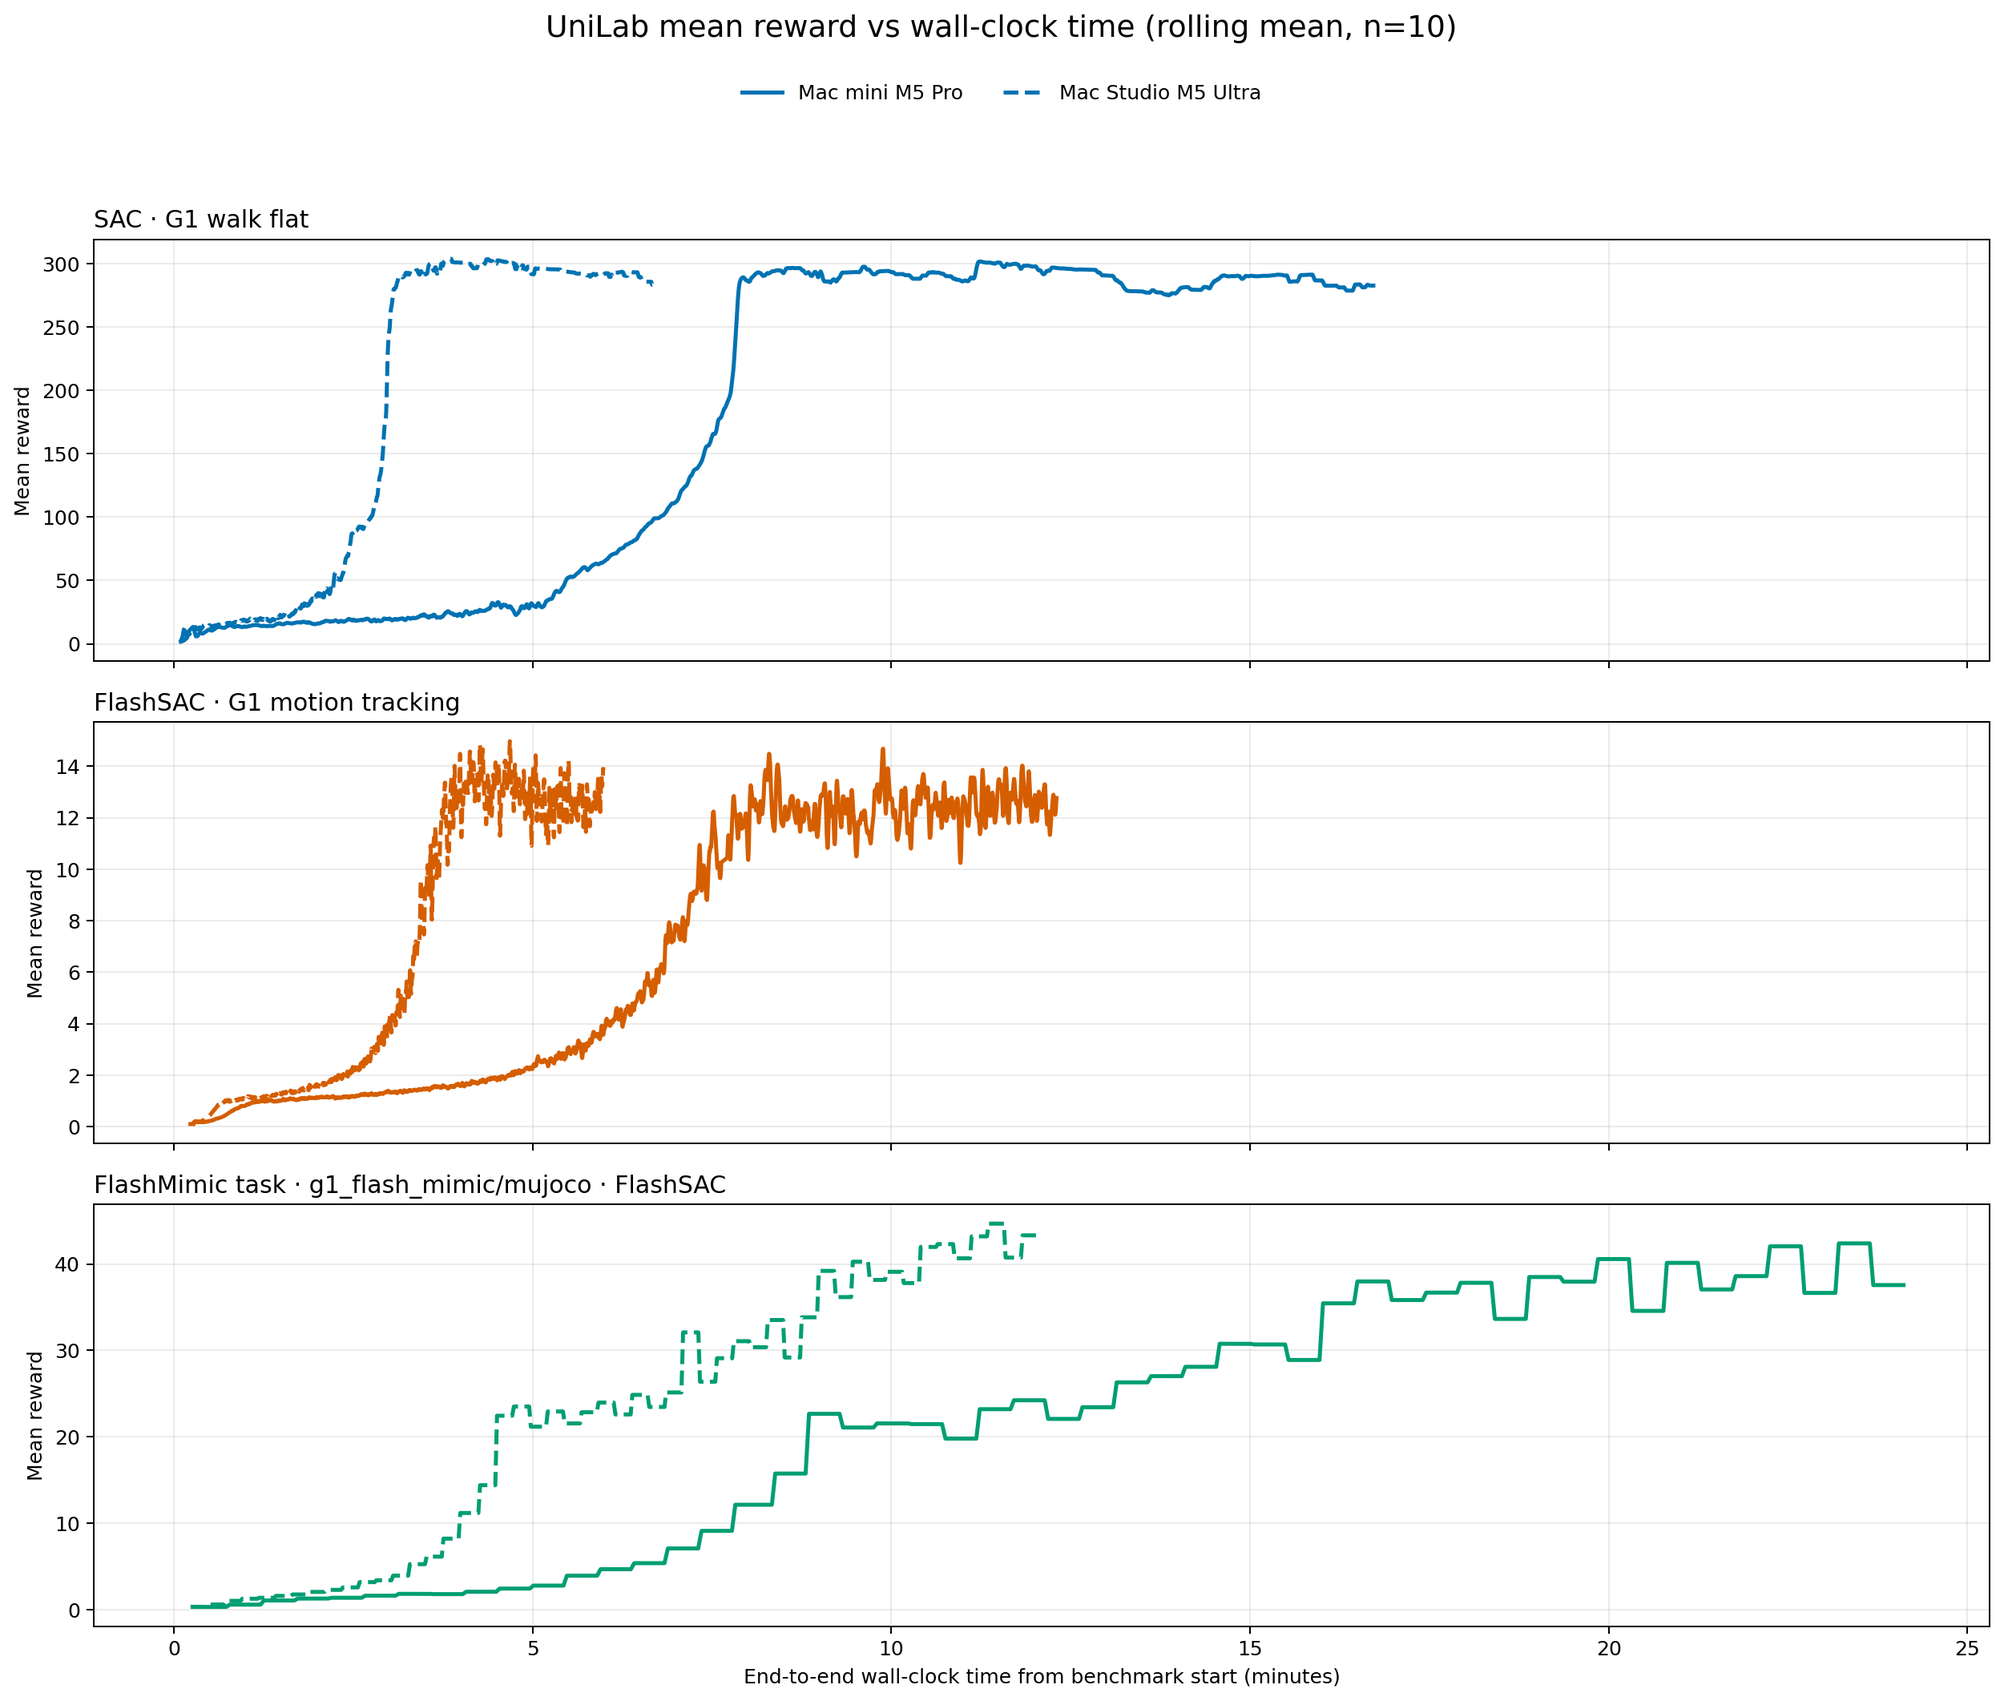
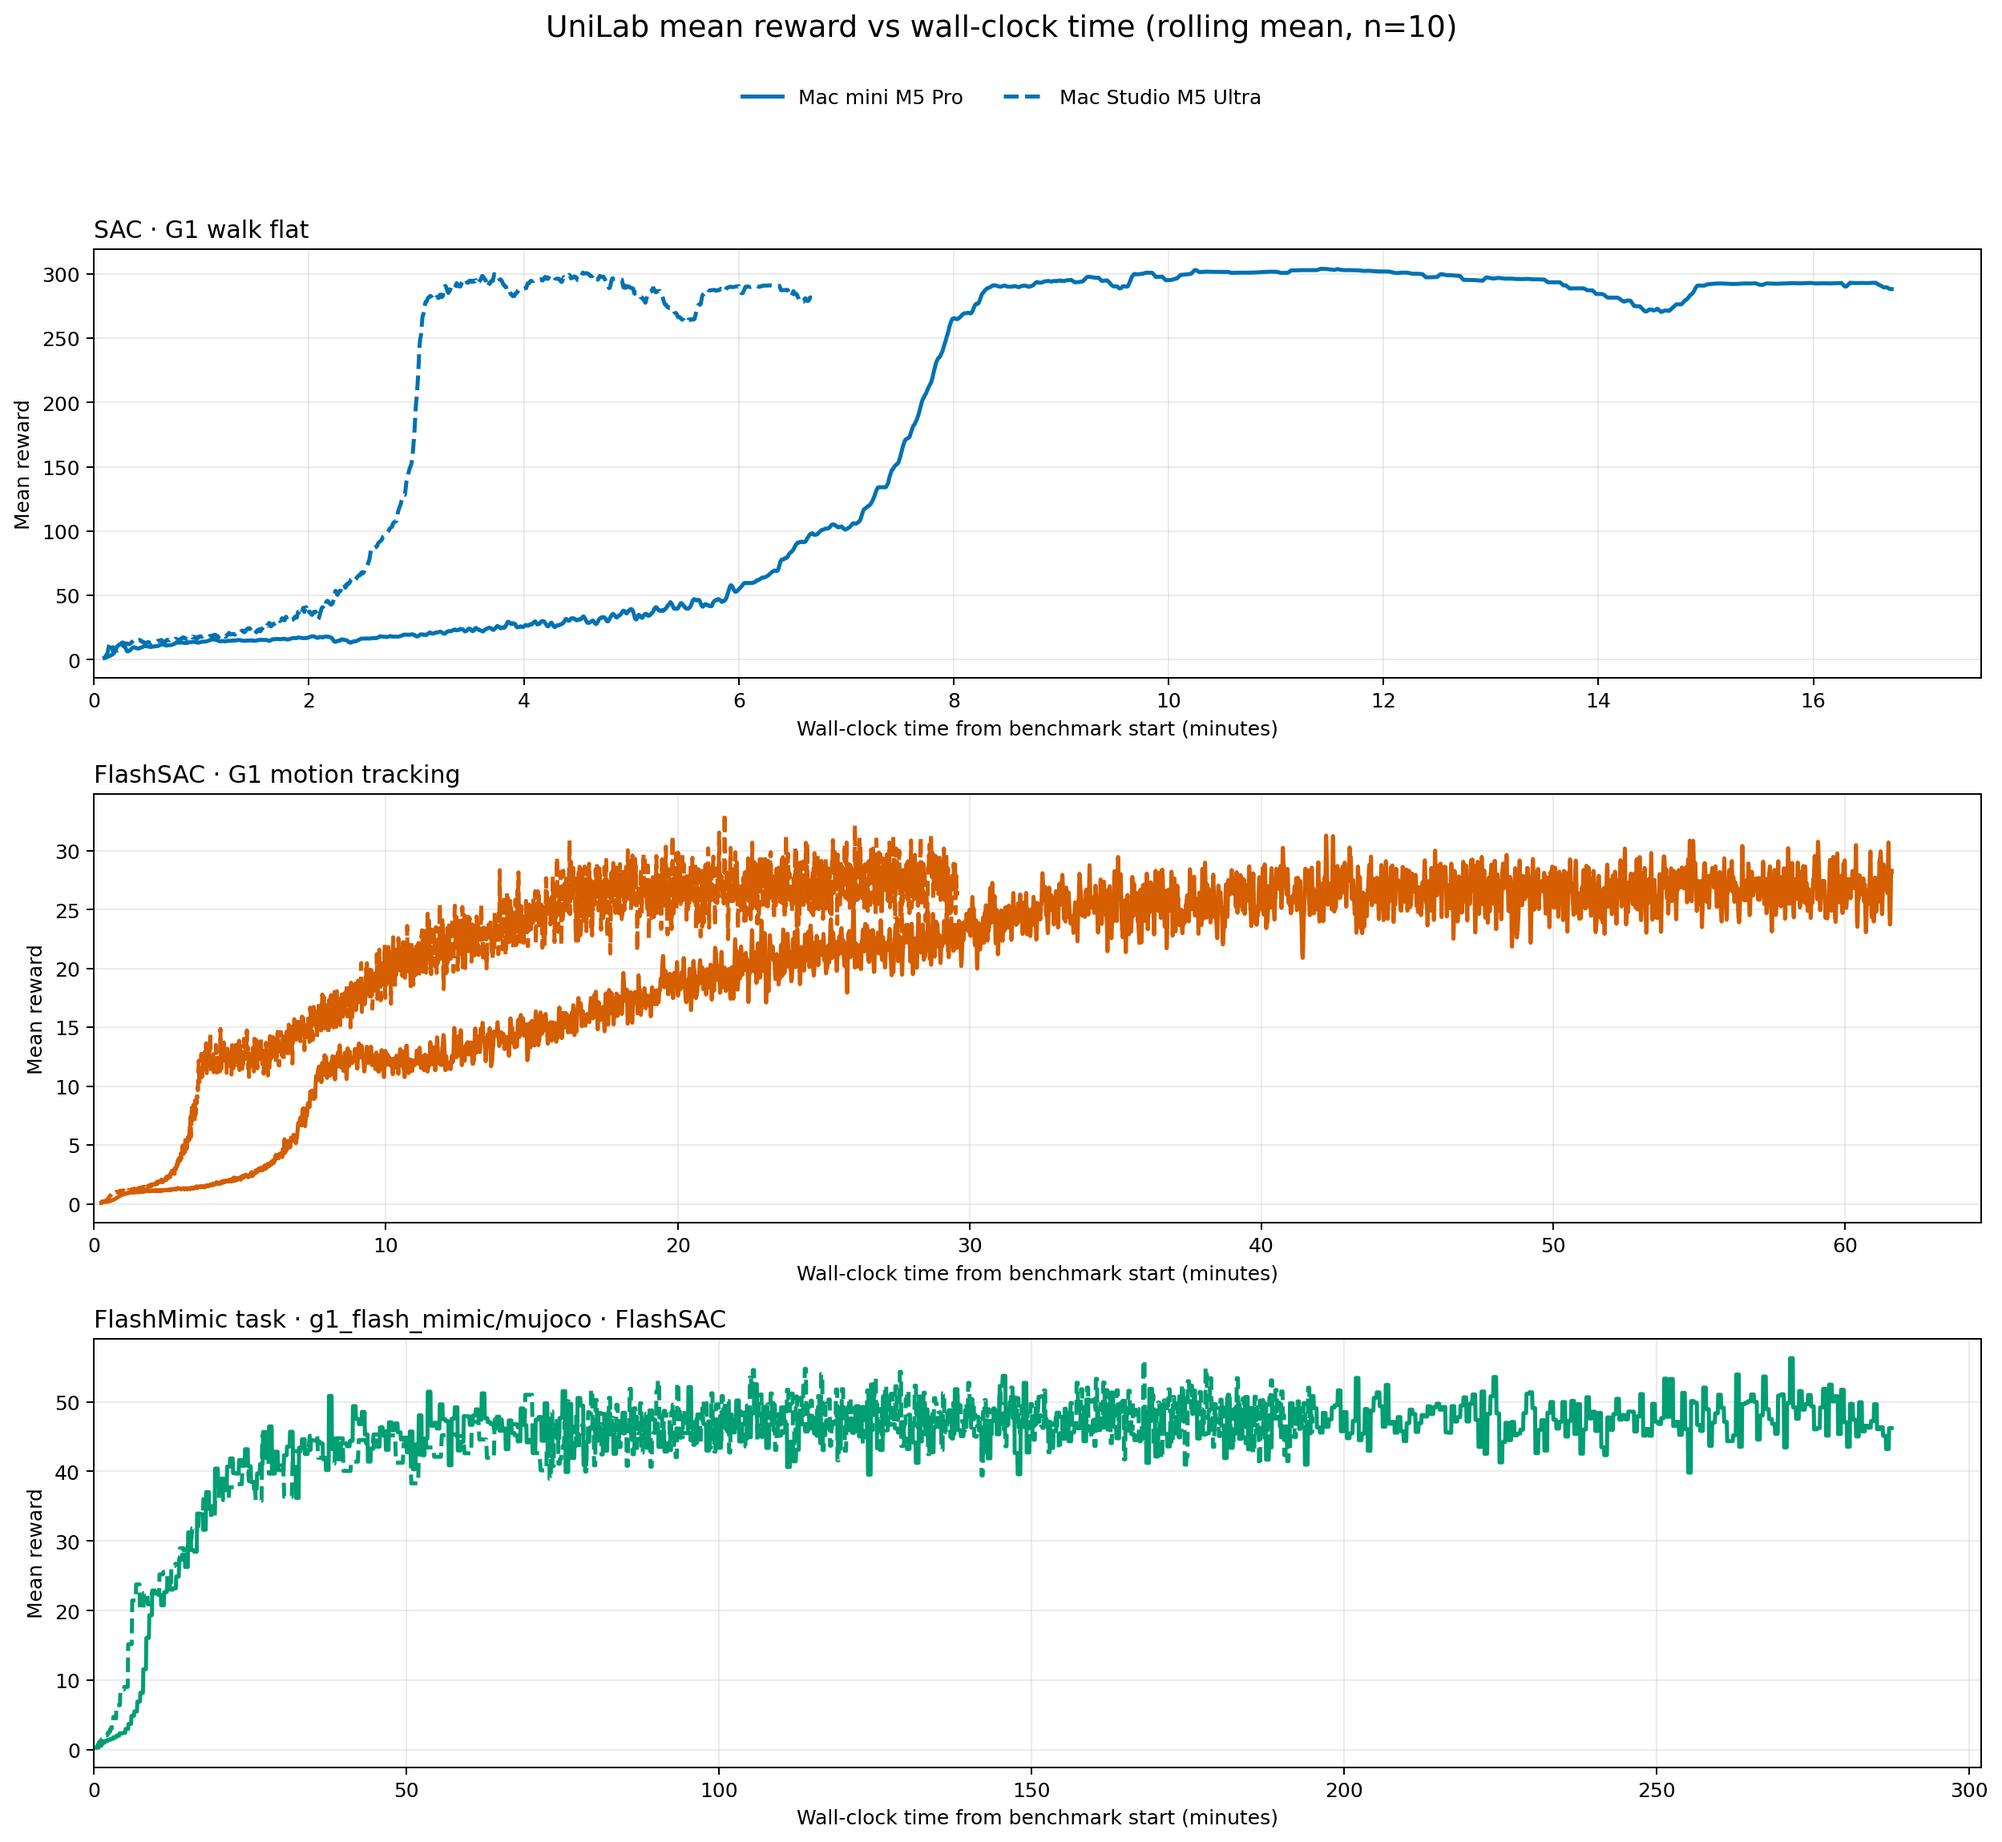
Use independent wall-clock ranges for reward panels

diff --git a/scripts/analyze_results.py b/scripts/analyze_results.py
@@ -310,13 +310,19 @@ def _plot(rows: list[dict[str, Any]], output: Path, smoothing: int) -> None:
         if row["metric"] == REWARD_TAG:
             grouped[(row["experiment"], row["machine"])].append(row)
 
-    fig, axes = plt.subplots(len(ALGO_LABELS), 1, figsize=(14, 12), sharex=True)
+    # Each recipe has a different default iteration budget and therefore a
+    # different wall-clock duration. Keep one x scale per panel; sharing the
+    # FlashMimic range makes the shorter SAC curves visually unreadable.
+    fig, axes = plt.subplots(len(ALGO_LABELS), 1, figsize=(14, 13), sharex=False)
     for axis, experiment in zip(axes, ALGO_LABELS, strict=True):
+        panel_max_minutes = 0.0
         for machine in MACHINE_LABELS:
             series = grouped.get((experiment, machine), [])
             series.sort(key=lambda item: item["wall_time_sec"])
             x = [item["wall_time_sec"] / 60.0 for item in series]
             y = _rolling_mean([item["value"] for item in series], smoothing)
+            if x:
+                panel_max_minutes = max(panel_max_minutes, max(x))
             axis.plot(
                 x,
                 y,
@@ -327,8 +333,11 @@ def _plot(rows: list[dict[str, Any]], output: Path, smoothing: int) -> None:
             )
         axis.set_title(ALGO_LABELS[experiment], loc="left")
         axis.set_ylabel("Mean reward")
+        # Start at zero and add only a small margin after the last recorded
+        # point, independently for this recipe's panel.
+        axis.set_xlim(0.0, max(1.0, panel_max_minutes * 1.05))
+        axis.set_xlabel("Wall-clock time from benchmark start (minutes)")
         axis.grid(True, alpha=0.25)
-    axes[-1].set_xlabel("End-to-end wall-clock time from benchmark start (minutes)")
     handles, labels = axes[0].get_legend_handles_labels()
     if handles:
         fig.legend(

diff --git a/README.md b/README.md
@@ -222,13 +222,17 @@ complete submission artifact. Analysis generates:
 
 - `results/processed/curves.csv` with raw reward and performance scalars;
 - `results/processed/summary.csv` with validated run summaries;
-- `figures/reward_wall_clock.png` with six reward–wall-time curves;
+- `figures/reward_wall_clock.png` with six reward–wall-time curves; each
+  recipe panel uses its own wall-clock range so shorter SAC/FlashSAC runs are
+  not compressed by the longer FlashMimic run;
 - `REPORT.md` with exactly the two requested result tables.
 
 Wall time for a scalar is its TensorBoard event timestamp minus the wrapper
 start time. This includes process startup, environment construction, replay
 warm-up, and compilation. The figure applies a ten-event rolling mean only for
-display; the CSV retains raw values.
+display; the CSV retains raw values. The three panels intentionally use
+independent x-axis limits, each ending shortly after that recipe's latest
+event.
 
 ### Downloading the six final videos
 
